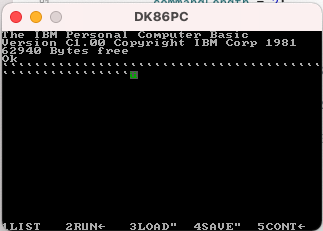
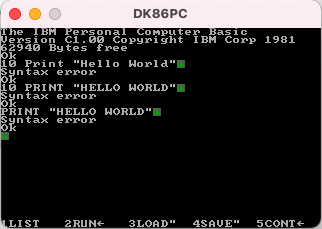
Updated screenshot and linked to Mike's emulator.

diff --git a/README.md b/README.md
@@ -1,12 +1,12 @@
 # DK86PC
 A WIP attempt to write an Intel 8086 emulator... and eventually an original IBM PC 5150 emulator.
 
-It's at the point where it gets through booting the BIOS and gets to the IBM Casette BASIC (I haven't made much progress on the floppy disk controller to boot DOS). But then all keys get recognized as apostrophes: 
+It's at the point where it gets through booting the BIOS and gets to the IBM Casette BASIC (I haven't made much progress on the floppy disk controller to boot DOS). But everything is a syntax error—I think because of the u character being inserted at the end of each line: 
 
 ![Casette BASIC Booting](CasetteBASIC.png)
 
 If someone wants to help me finish it, I'd be happy for the help. Right now most of the 8086 (8088 technically but no difference at this point) is done, memory works, CGA has text mode support, and a basic implementation of most of the essential support chips is done (PIC, PIT, etc.). It's an Xcode project but the only dependencies are SDL and SDL_TTF so it can easily be ported to other platforms.
 
-I've run some automated CPU tests and the CPU is reasonably good, but is still missing some instructions (DIV for example). I wrote it all by hand using Intel/IBM/online documentation, only looking at other emulators when I got really stuck for a particular specific item.
+I've run some automated CPU tests and the CPU is reasonably good, but is still missing a few instructions. I wrote it all by hand using Intel/IBM/online documentation, only looking at other emulators when I got really stuck for a particular specific item.
 
-The emulator I've found most helpful as a reference is [this Java one](https://github.com/NeatMonster/Intel8086) by @NeatMonster. 
+The emulator I've found most helpful as a reference is [this Java one](https://github.com/NeatMonster/Intel8086) by @NeatMonster. And [this C one](https://github.com/mikechambers84/XTulator/tree/master/XTulator/modules/video) by @mikechambers84.
